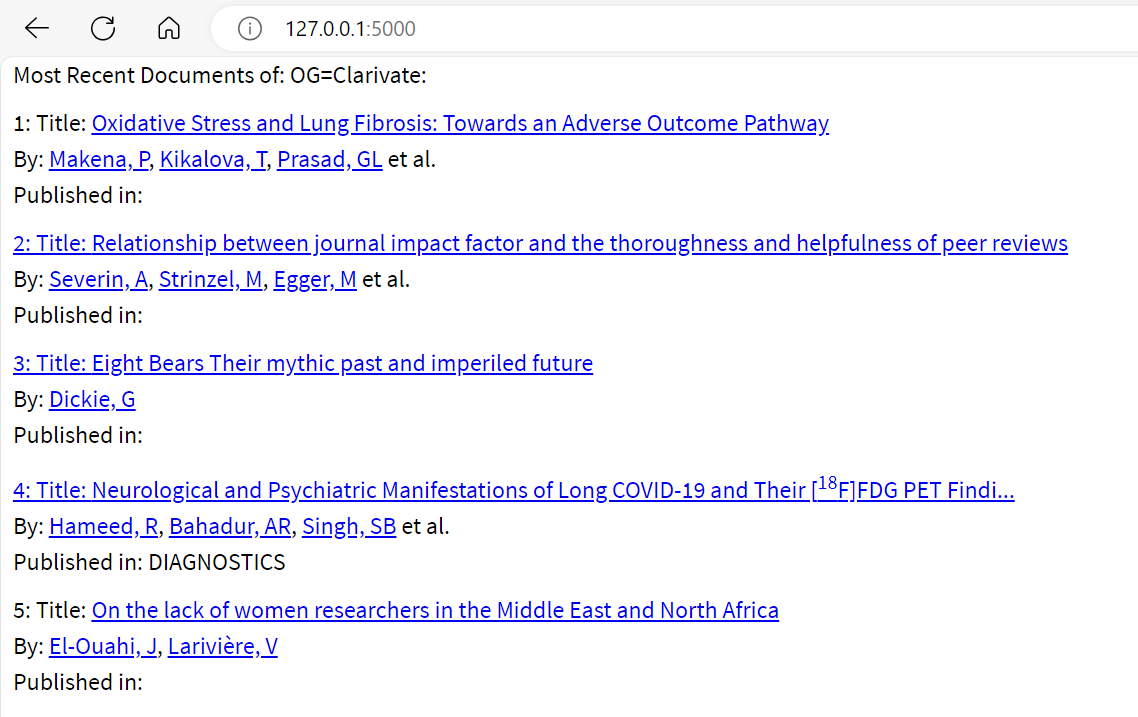
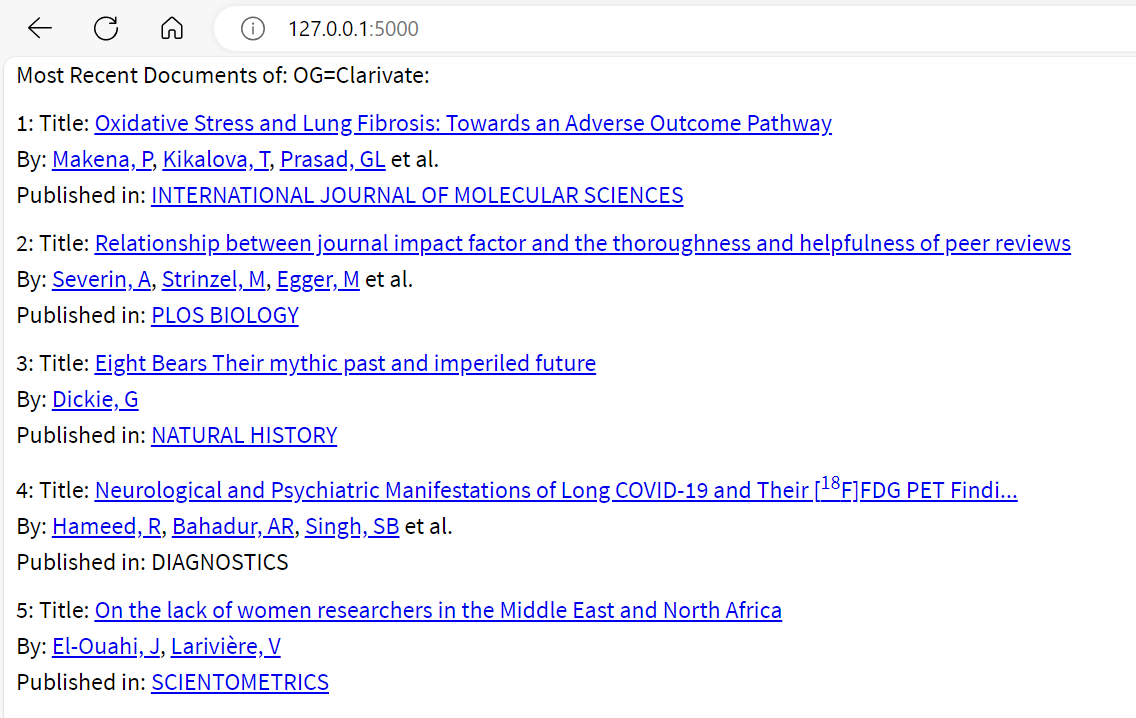
added a missing bracket into one of the hyperlinks.

diff --git a/most_recent_wos_items/main.py b/most_recent_wos_items/main.py
@@ -35,7 +35,7 @@ for wos_document in initial_json['hits'][:RECORDS_TO_DISPLAY]:
                                        headers={'X-ApiKey': STARTER_APIKEY})
         journal_json = journal_request.json()
         if journal_json['hits']:
-            wos_document['source']['sourceTitle'] = f"<a href={journal_json['hits'][0]['links'][0]['url']}" \
+            wos_document['source']['sourceTitle'] = f"<a href={journal_json['hits'][0]['links'][0]['url']}>" \
                 + wos_document['source']['sourceTitle'] + '</a>'
 
 app = Flask(__name__)
